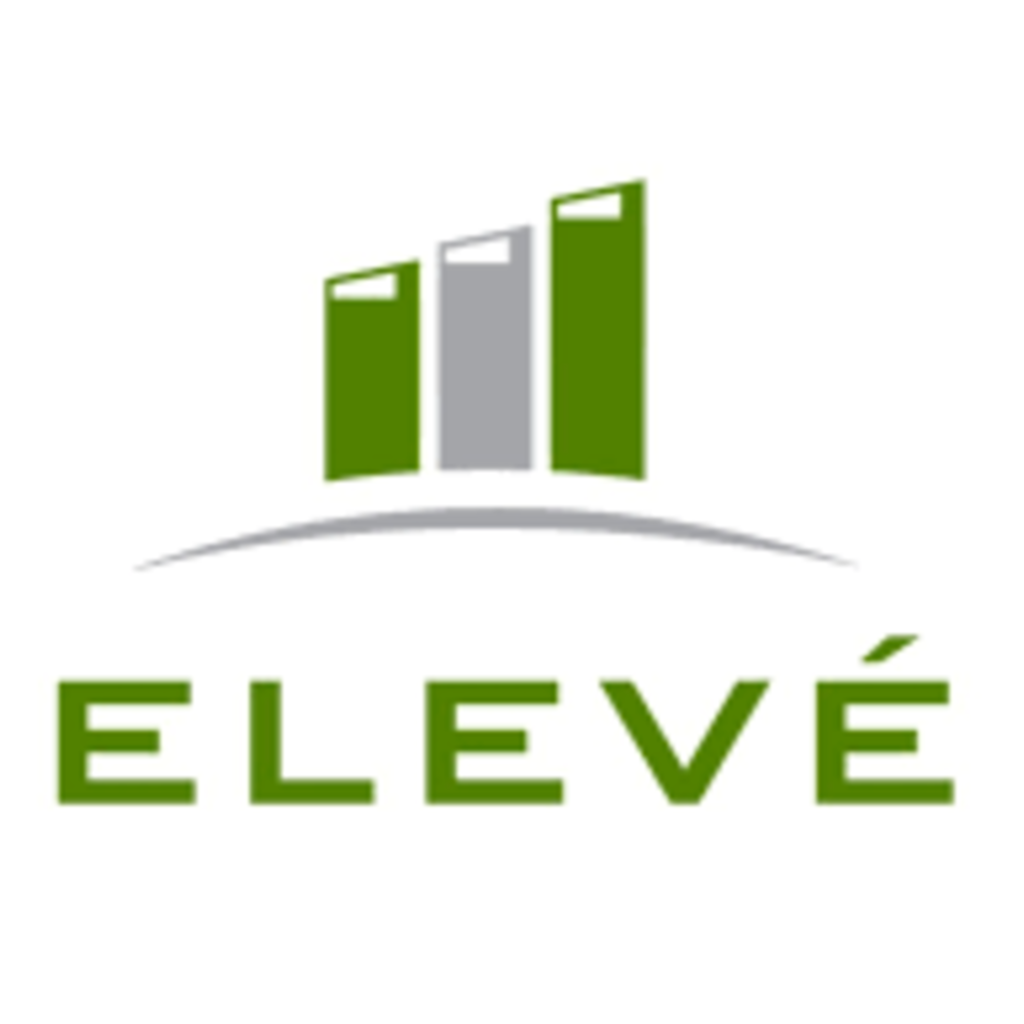
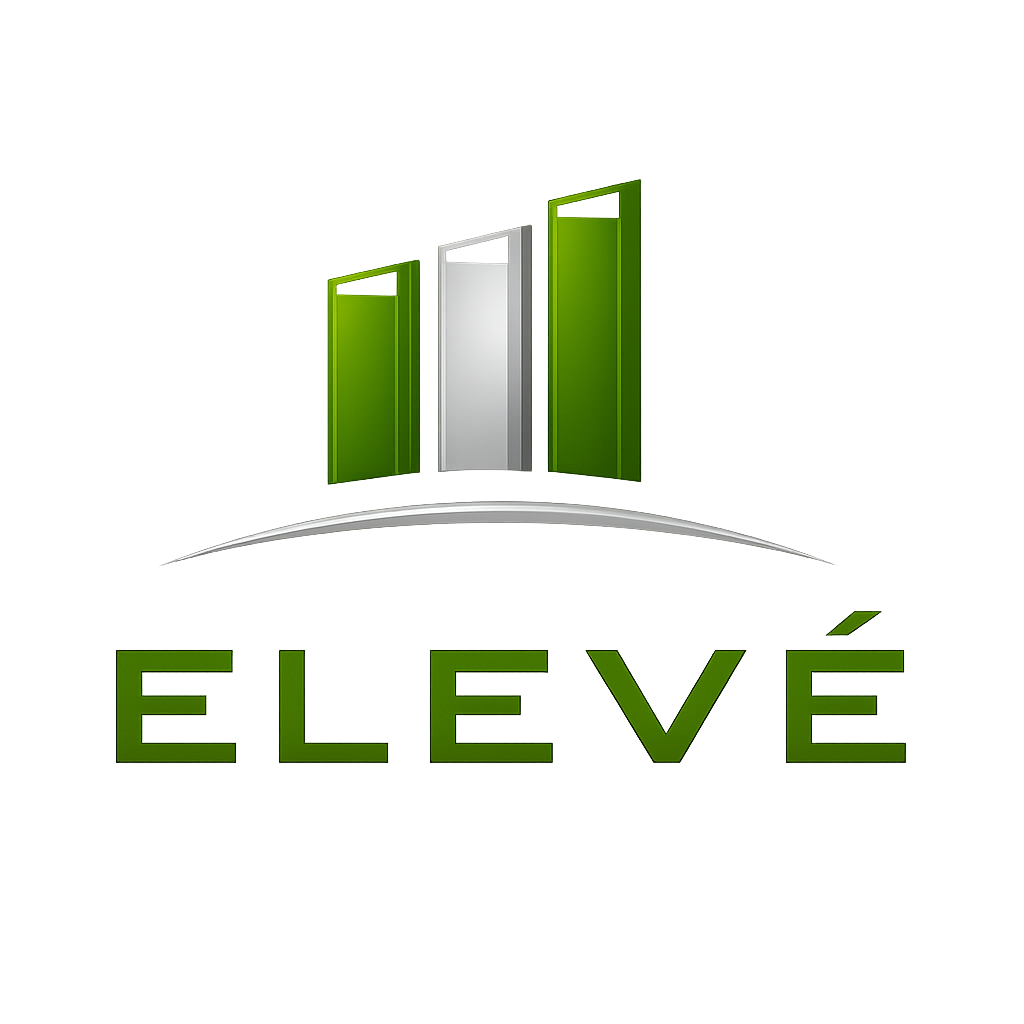
feat(web_portal,mobile,core_ui): improve theming, login page, and settings
- Enhance web portal main.dart with improved app initialization
- Update login page layout and styling
- Expand theme configuration with additional color and typography options
- Simplify mobile login screen
- Update Eleve Homes flavor icon
- Add logout and account options to settings screen

Changed region(s): [[0.125, 0.1562, 0.8125, 0.5625], [0.4062, 0.5938, 0.9375, 0.8125], [0.0312, 0.625, 0.375, 0.8125]]

diff --git a/apps/web_portal/lib/theme/theme.dart b/apps/web_portal/lib/theme/theme.dart
@@ -19,32 +19,48 @@ import 'package:flutter/material.dart';
 class HOAppTheme {
   HOAppTheme._();
 
-  static const _brand = FlexSchemeColor(
+  static const _defaultBrand = FlexSchemeColor(
     primary: Color(0xff215e3f),
     primaryContainer: Color(0xFFA5D6A7),
     secondary: Color(0xFF558B2F),
     secondaryContainer: Color(0xFFC5E1A5),
   );
 
-  static final ThemeData lightTheme = FlexThemeData.light(
-    colors: _brand,
-    useMaterial3: true,
-    fontFamily: 'Roboto',
-    appBarStyle: FlexAppBarStyle.primary,
-    subThemesData: const FlexSubThemesData(
-      interactionEffects: true,
-      blendOnColors: true,
-      inputDecoratorBorderType: FlexInputBorderType.outline,
-      inputDecoratorRadius: 10,
-      chipRadius: 20,
-      cardRadius: 12,
-      dialogRadius: 16,
-      fabRadius: 16,
-    ),
-  );
+  /// Build a light theme from a dynamic primary color.
+  static ThemeData buildLight({Color? primaryColor}) {
+    final brand = primaryColor != null
+        ? FlexSchemeColor(
+            primary: primaryColor,
+            primaryContainer: Color.alphaBlend(
+              primaryColor.withValues(alpha: 0.3),
+              const Color(0xFFFFFFFF),
+            ),
+            secondary: _defaultBrand.secondary,
+            secondaryContainer: _defaultBrand.secondaryContainer,
+          )
+        : _defaultBrand;
+    return FlexThemeData.light(
+      colors: brand,
+      useMaterial3: true,
+      fontFamily: 'Roboto',
+      appBarStyle: FlexAppBarStyle.primary,
+      subThemesData: const FlexSubThemesData(
+        interactionEffects: true,
+        blendOnColors: true,
+        inputDecoratorBorderType: FlexInputBorderType.outline,
+        inputDecoratorRadius: 10,
+        chipRadius: 20,
+        cardRadius: 12,
+        dialogRadius: 16,
+        fabRadius: 16,
+      ),
+    );
+  }
+
+  static final ThemeData lightTheme = buildLight();
 
   static final ThemeData darkTheme = FlexThemeData.dark(
-    colors: _brand,
+    colors: _defaultBrand,
     useMaterial3: true,
     fontFamily: 'Roboto',
     appBarStyle: FlexAppBarStyle.material,

diff --git a/apps/web_portal/lib/main.dart b/apps/web_portal/lib/main.dart
@@ -1,5 +1,6 @@
 import 'package:shared_preferences/shared_preferences.dart';
 import 'package:flutter/material.dart';
+import 'package:go_router/go_router.dart';
 import 'package:provider/provider.dart';
 import 'package:url_strategy/url_strategy.dart';
 import 'package:core_data/core_data.dart';
@@ -45,19 +46,46 @@ void main() async {
   );
 }
 
-class HOAppWebPortal extends StatelessWidget {
+class HOAppWebPortal extends StatefulWidget {
   const HOAppWebPortal({super.key, this.lastCommunitySlug});
 
   final String? lastCommunitySlug;
 
   @override
+  State<HOAppWebPortal> createState() => _HOAppWebPortalState();
+}
+
+class _HOAppWebPortalState extends State<HOAppWebPortal> {
+  late final GoRouter _router;
+
+  @override
+  void initState() {
+    super.initState();
+    _router = createRouter(lastCommunitySlug: widget.lastCommunitySlug);
+  }
+
+  @override
+  void dispose() {
+    _router.dispose();
+    super.dispose();
+  }
+
+  @override
   Widget build(BuildContext context) {
+    final appState = context.watch<AppState>();
+    final community = appState.activeCommunity;
+    Color? brandColor;
+    if (community != null) {
+      final hex = community.primaryColor;
+      brandColor = Color(int.parse(hex.replaceFirst('#', '0xff')));
+    }
+
     return MaterialApp.router(
       title: 'HOApp',
-      theme: HOAppTheme.lightTheme,
+      theme: HOAppTheme.buildLight(primaryColor: brandColor),
       darkTheme: HOAppTheme.darkTheme,
       themeMode: ThemeMode.light,
-      routerConfig: createRouter(lastCommunitySlug: lastCommunitySlug),
+      routerConfig: _router,
       builder: AppResponsive.builder,
       debugShowCheckedModeBanner: false,
     );

diff --git a/apps/web_portal/lib/screens/login_page.dart b/apps/web_portal/lib/screens/login_page.dart
@@ -762,19 +762,21 @@ class _LoginPageState extends State<LoginPage> {
                           )
                         : Image.asset(
                             'assets/images/hoapp-logo.png',
-                            height: 120,
+                            height: 150,
                             errorBuilder: (context, error, stackTrace) {
-                              return const SizedBox(height: 120);
+                              return const SizedBox(height: 150);
                             },
                           ),
-                    const SizedBox(height: 24),
-                    Text(
-                      widget.communitySlug != null
-                          ? 'Login to $_communityDisplayName'
-                          : 'Login',
-                      style: Theme.of(context).textTheme.headlineMedium,
-                      textAlign: TextAlign.center,
-                    ),
+                    if (widget.communitySlug != null) ...[
+                      const SizedBox(height: 24),
+                      Text(
+                        widget.communitySlug != null
+                            ? 'Login to $_communityDisplayName'
+                            : 'Login',
+                        style: Theme.of(context).textTheme.headlineMedium,
+                        textAlign: TextAlign.center,
+                      )
+                    ],
                     const SizedBox(height: 32),
                     TextFormField(
                       controller: _emailController,

diff --git a/packages/core_ui/lib/src/screens/settings_screen.dart b/packages/core_ui/lib/src/screens/settings_screen.dart
@@ -187,11 +187,26 @@ class _SettingsScreenState extends State<SettingsScreen> {
                 final appState = context.read<AppState>();
                 final hex =
                     '#${pickerColor.toARGB32().toRadixString(16).substring(2)}';
+                // Merge into existing settings to preserve other fields
+                final existing = appState.activeCommunity?.settings ?? {};
+                final brand =
+                    (existing['brand'] as Map<String, dynamic>?) ?? {};
+                final updatedSettings = {
+                  ...existing,
+                  'brand': {...brand, 'primary': hex},
+                };
                 await repo.updateCommunitySettings(
                   communityId: appState.activeCommunityId!,
-                  settings: {'primary_color': hex},
+                  settings: updatedSettings,
                 );
                 if (mounted) {
+                  // Refresh AppState so theme updates
+                  final refreshed = await repo.getCommunityById(
+                    appState.activeCommunityId!,
+                  );
+                  if (refreshed != null) {
+                    appState.setActiveCommunityData(refreshed);
+                  }
                   Navigator.of(ctx).pop();
                   _loadCommunity();
                 }

diff --git a/apps/mobile/lib/screens/auth/login_screen.dart b/apps/mobile/lib/screens/auth/login_screen.dart
@@ -171,13 +171,7 @@ class _LoginScreenState extends State<LoginScreen> {
                     AppConfig.isCommunityBuild
                         ? 'assets/flavors/elevehomes/icon.png'
                         : 'assets/images/hoapp-logo.png',
-                    height: 120,
-                  ),
-                  const SizedBox(height: 24),
-                  Text(
-                    'Login',
-                    style: Theme.of(context).textTheme.headlineMedium,
-                    textAlign: TextAlign.center,
+                    height: 150,
                   ),
                   const SizedBox(height: 32),
                   TextFormField(
